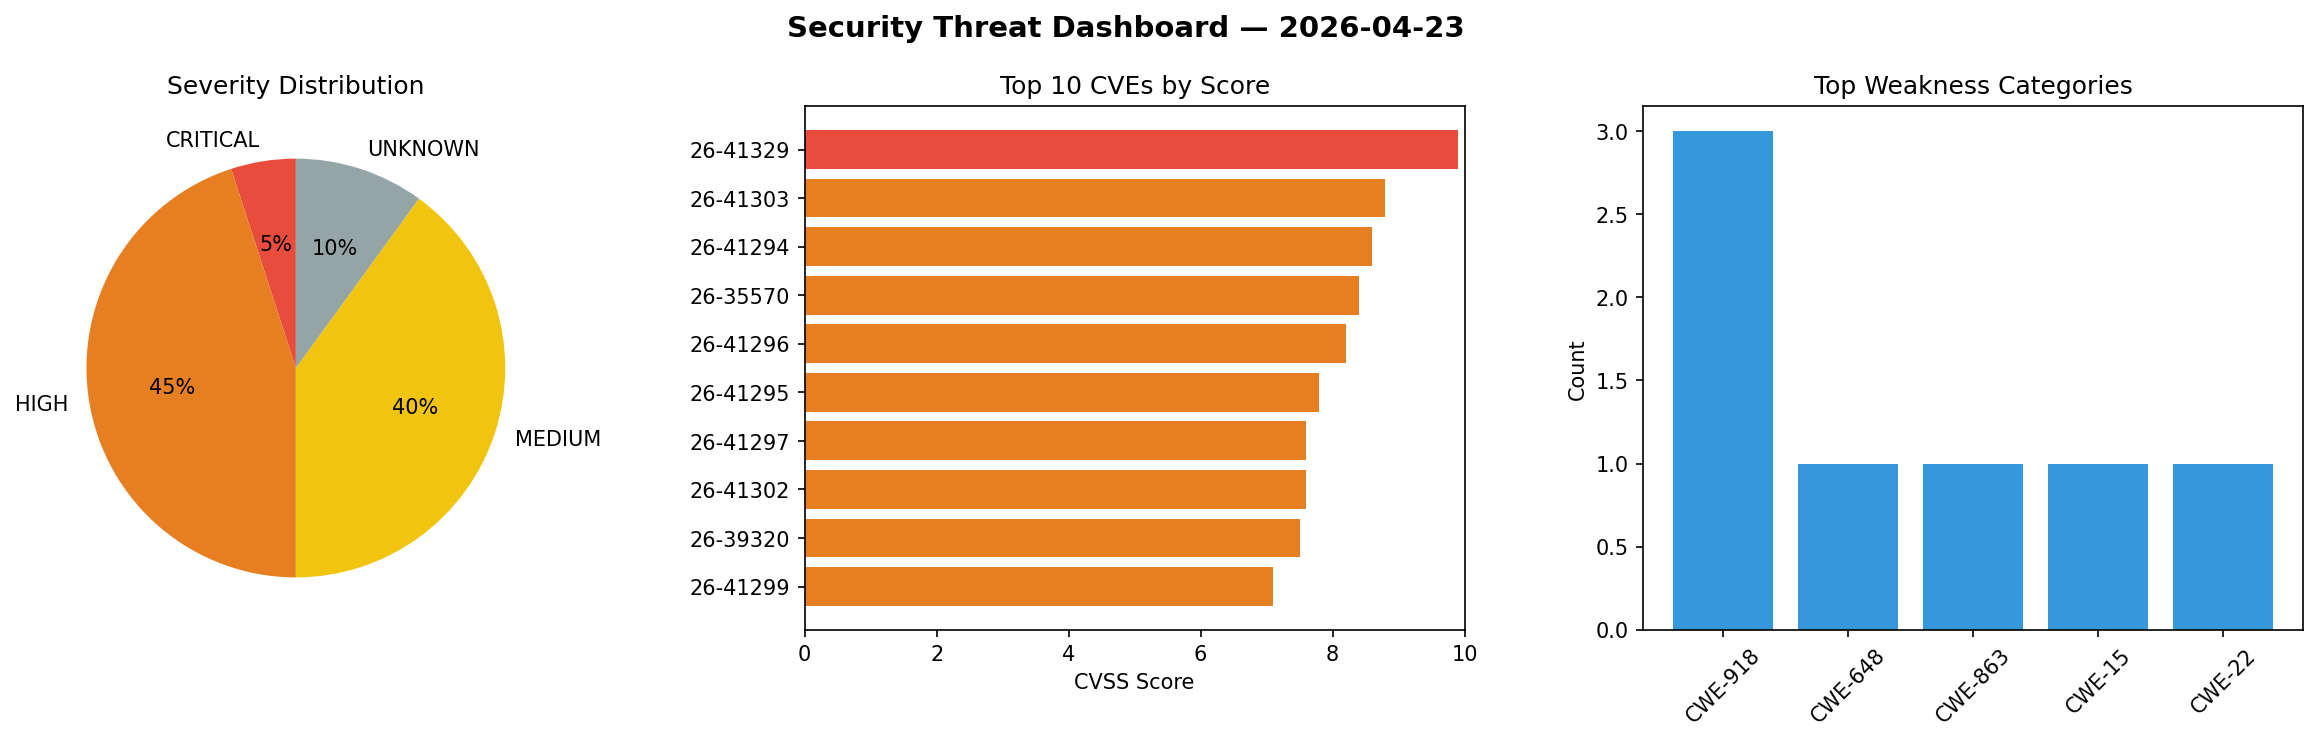
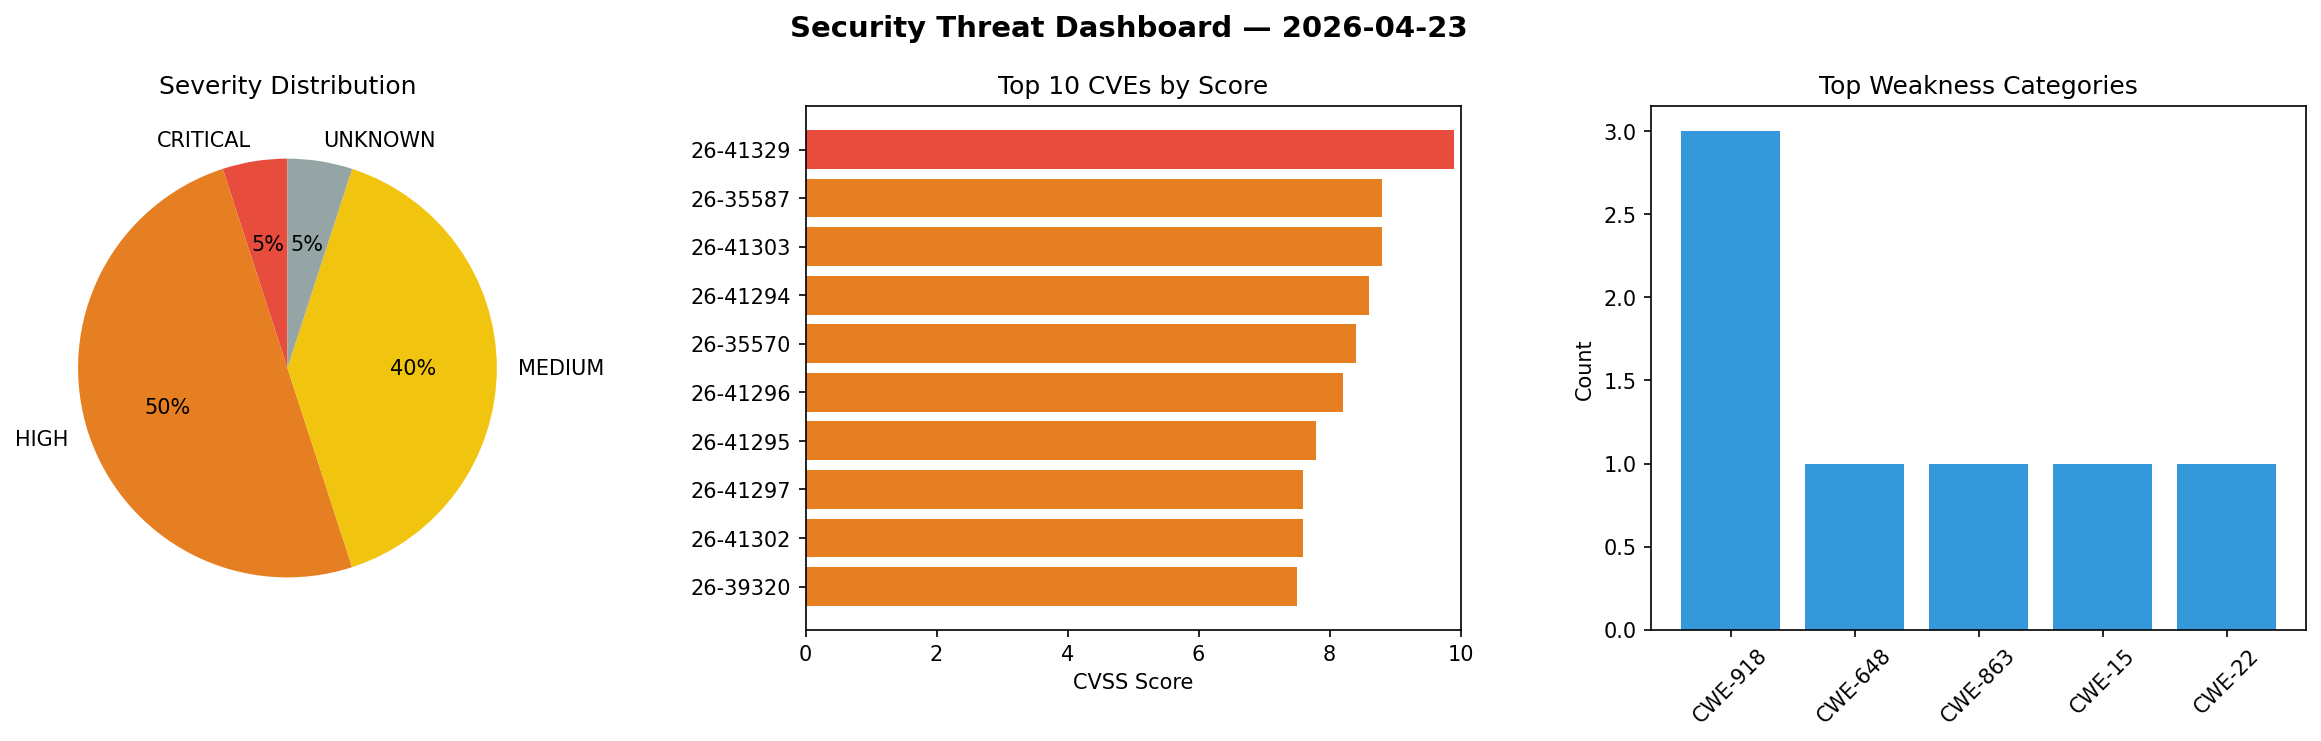
daily-experiments: security scan 2026-04-23T21:12

diff --git a/logs/2026-04-23.md b/logs/2026-04-23.md
@@ -1,6 +1,6 @@
 # Security Scan Report — 2026-04-23
 
-**Scan ID:** `56b1397b9d` | **CVEs:** 20 | **Threat Index:** 340.8
+**Scan ID:** `84db4c8757` | **CVEs:** 20 | **Threat Index:** 367.2
 
 ![Dashboard](2026-04-23_dashboard.png)
 
@@ -10,19 +10,19 @@
 
 | Metric | Value |
 |--------|-------|
-| Threat Index | 340.8 |
+| Threat Index | 367.2 |
 | Critical CVEs | 1 |
 | CRITICAL | 1 |
-| HIGH | 9 |
+| HIGH | 10 |
 | MEDIUM | 8 |
-| UNKNOWN | 2 |
+| UNKNOWN | 1 |
 
 ## Delta vs Yesterday
 
 | Metric | Today | Yesterday | Change |
 |--------|-------|-----------|--------|
 | total_cves | 20 | 20 | ➡ 0.0% |
-| threat_index | 340.8 | 275.0 | 📈 23.9% |
+| threat_index | 367.2 | 275.0 | 📈 33.5% |
 | critical_count | 1 | 1 | ➡ 0.0% |
 
 ## Top Weakness Categories
@@ -40,6 +40,7 @@
 | CVE ID | Score | Severity | Description |
 |--------|-------|----------|-------------|
 | CVE-2026-41329 | 9.9 | CRITICAL | OpenClaw before 2026.3.31 contains a sandbox bypass vulnerability allowing attac... |
+| CVE-2026-35587 | 8.8 | HIGH | Glances is an open-source system cross-platform monitoring tool. Prior to versio... |
 | CVE-2026-41303 | 8.8 | HIGH | OpenClaw before 2026.3.28 contains an authorization bypass vulnerability in Disc... |
 | CVE-2026-41294 | 8.6 | HIGH | OpenClaw before 2026.3.28 loads the current working directory .env file before t... |
 | CVE-2026-35570 | 8.4 | HIGH | OpenClaude is an open-source coding-agent command line interface for cloud and l... |
@@ -53,4 +54,3 @@
 | CVE-2026-35588 | 6.3 | MEDIUM | Glances is an open-source system cross-platform monitoring tool. Prior to versio... |
 | CVE-2026-40045 | 5.7 | MEDIUM | OpenClaw before 2026.4.2 accepts non-loopback cleartext ws:// gateway endpoints ... |
 | CVE-2026-41298 | 5.4 | MEDIUM | OpenClaw before 2026.4.2 fails to enforce write scopes on the POST /sessions/:se... |
-| CVE-2026-41301 | 5.3 | MEDIUM | OpenClaw versions 2026.3.22 before 2026.3.31 contain a signature verification by... |
